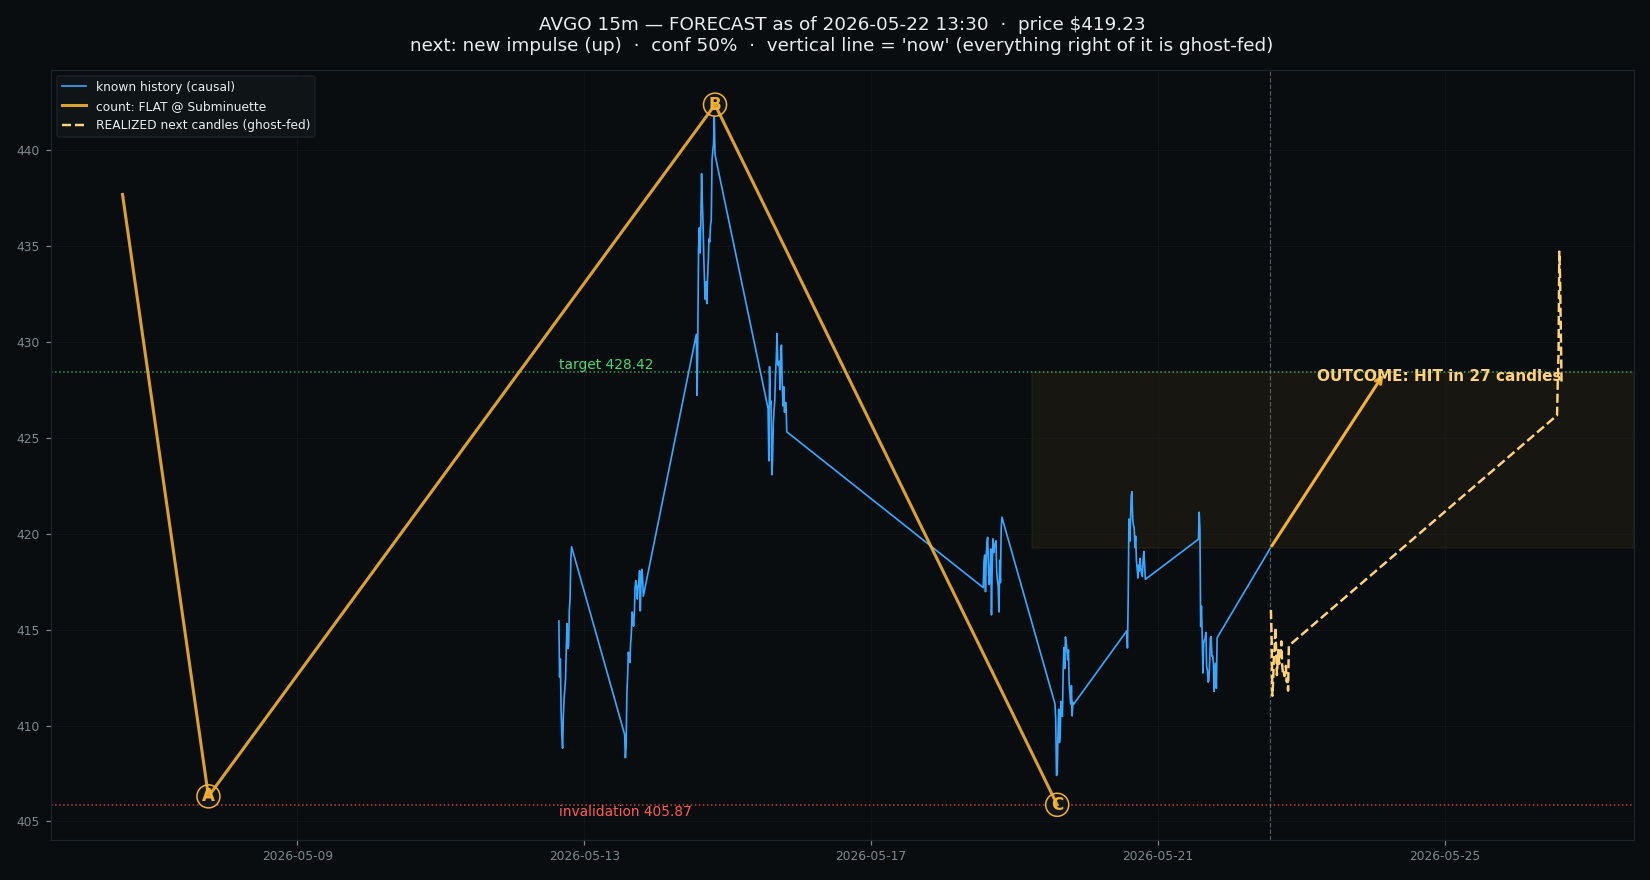
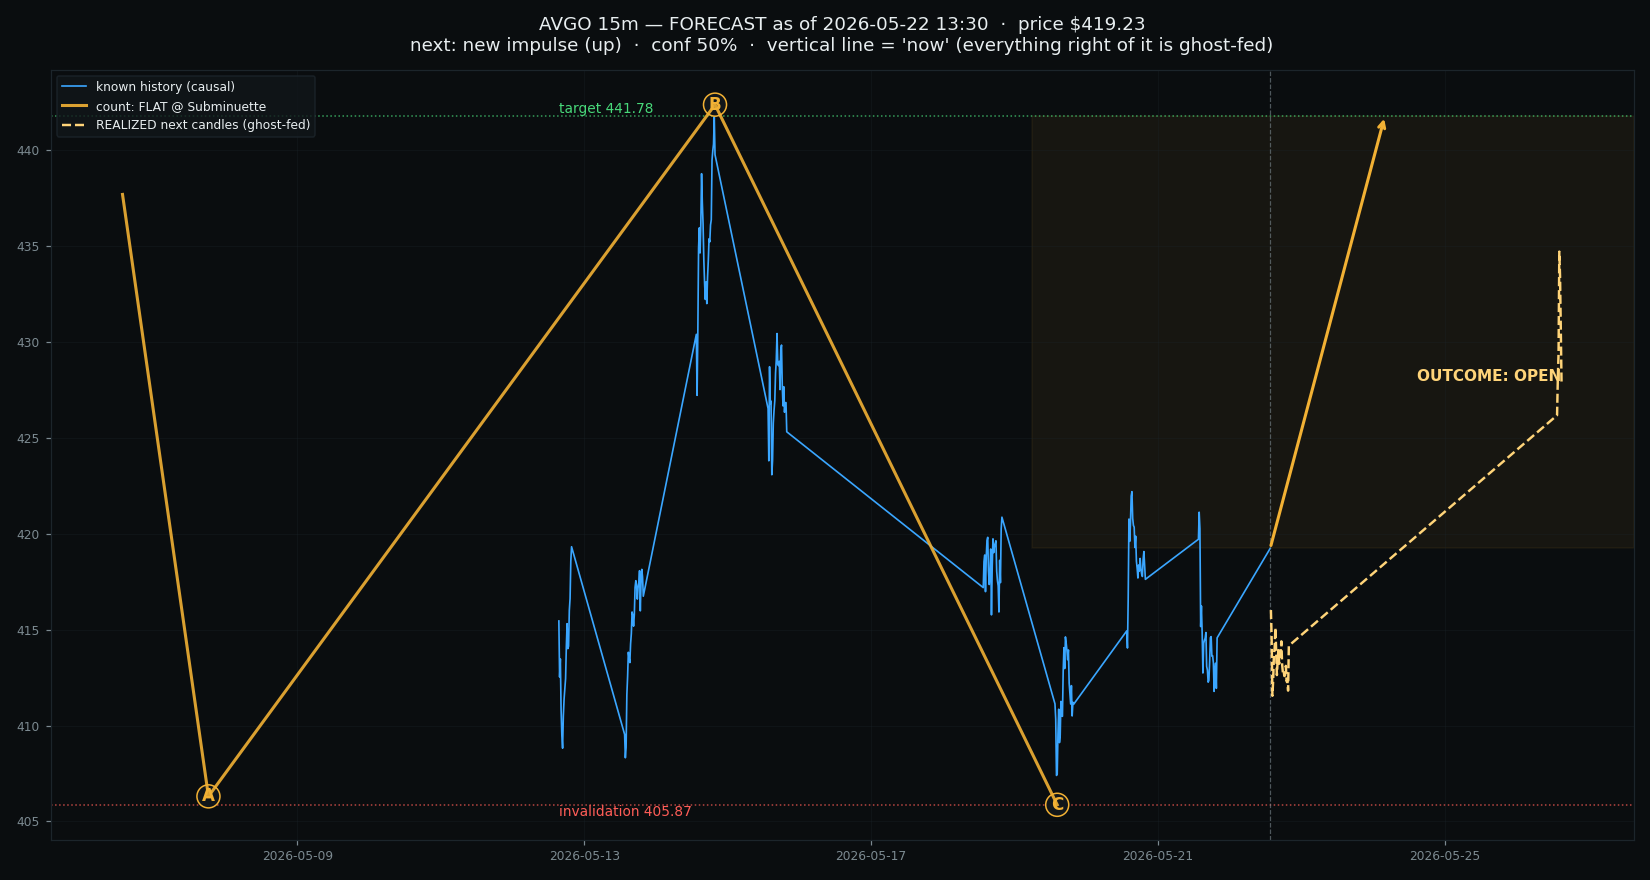
fix(forecast): re-anchor projections to current price -> intraday stale 51%->6%
The forward test exposed that ~half of intraday forecasts were unusable: extension
targets were anchored to the last CONFIRMED pivot, which lags price, so the target
sat on the wrong side of current price. forecast_from_count now re-anchors the
extension/thrust projections to CURRENT price when an unconfirmed leg is already
developing in the forecast direction. Result on AVGO 15m ghost-feed: stale 117->13
(51%->6%); usable forecasts now resolve to a HONEST 57% target-hit (down from the
inflated 89% trivial-instant-hits), next-candle direction 55%. Forecasts are now
actionable in real time; the honest hit rate is modest (R:R<1 so not yet a proven
edge). Tests green.

diff --git a/wavelib/forecast.py b/wavelib/forecast.py
@@ -82,21 +82,29 @@ def forecast_from_count(pc, price, sequence_status="INCOMPLETE") -> "WaveForecas
         # 3-wave correction complete -> a new impulse; project Fibonacci EXTENSIONS of
         # the last leg, incl. the EWF Blue Box (100%-161.8% equal-legs reaction zone).
         ll = last.length
-        ext = {r: anchor + sgn * r * ll for r in (0.618, 1.0, 1.272, 1.618, 2.618)}
+        # RE-ANCHOR to current price when an unconfirmed impulse leg is already
+        # developing (price has run in the forecast direction past the last confirmed
+        # pivot). Anchoring extensions to the stale pivot is what made ~half of
+        # intraday forecasts unusable (forward test); projecting from where price IS
+        # keeps the target ahead of price.
+        base = price if sgn * (price - anchor) > 0 else anchor
+        ext = {r: base + sgn * r * ll for r in (0.618, 1.0, 1.272, 1.618, 2.618)}
         targets = [("1.000x (equal legs)", ext[1.0]), ("1.618x (Blue Box top)", ext[1.618]),
                    ("2.618x extension", ext[2.618])]
         proj = list(ext.values())
         invalid = anchor                              # a break past the last pivot voids it
         nxt = f"new impulse ({direction})"
         why = ("3-wave correction appears complete; trend resumption is expected, "
-               "projected as Fibonacci EXTENSIONS of the last leg (Blue Box = 1.0-1.618x).")
+               "projected as Fibonacci EXTENSIONS of the last leg (Blue Box = 1.0-1.618x), "
+               "re-anchored to current price when the leg is already developing.")
     elif pat == "TRIANGLE":
         widest = max(l.length for l in legs)
         direction = "up" if struct_up else "down"
         sgn = 1 if direction == "up" else -1
-        th = triangle_thrust(widest, anchor, sgn)
+        base = price if sgn * (price - anchor) > 0 else anchor   # re-anchor to live price
+        th = triangle_thrust(widest, base, sgn)
         targets = [("thrust min (0.75x)", th["min"]), ("thrust max (1.25x)", th["max"])]
-        proj = [th["min"], th["max"], anchor + sgn * widest]
+        proj = [th["min"], th["max"], base + sgn * widest]
         invalid = first.start.price
         nxt = f"post-triangle thrust ({direction})"
         why = (f"triangle complete; a thrust of ~75-125% of the widest leg "

diff --git a/reports/FORWARD_TEST_AVGO_15m.md b/reports/FORWARD_TEST_AVGO_15m.md
@@ -3,41 +3,41 @@
 _Simulated real time: at each of 228 candles (2026-05-22 13:30 → 2026-06-04 18:15) the LIVE forecast is built from the prior 400 candles only, then the next 32 candles are ghost-fed to resolve it. Causal; not advice._
 
 ## Summary
-- **STALE/unusable forecasts: 117** of 228 (51%) — the target was already on the wrong side of price because the count's confirmed pivot lags (intraday lag). These are EXCLUDED, not counted as instant wins.
-- Usable forecasts resolved: **63** (HIT 56 / INVALIDATED 7); OPEN 48; no-forecast 0.
-- **Target-hit rate among USABLE forecasts: 89%.**
+- **STALE/unusable forecasts: 13** of 228 (6%) — the target was already on the wrong side of price because the count's confirmed pivot lags (intraday lag). These are EXCLUDED, not counted as instant wins.
+- Usable forecasts resolved: **86** (HIT 49 / INVALIDATED 37); OPEN 129; no-forecast 0.
+- **Target-hit rate among USABLE forecasts: 57%.**
 - Next-candle directional accuracy: **55%** of 228 (coin-flip = 50%).
 - Snapshots (forecast vs realized): `charts/png/forward/avgo_15m_step_1.png`, `charts/png/forward/avgo_15m_step_2.png`, `charts/png/forward/avgo_15m_step_3.png`, `charts/png/forward/avgo_15m_step_4.png`, `charts/png/forward/avgo_15m_step_5.png`, `charts/png/forward/avgo_15m_step_6.png`
 
 ## Live forecast log (every 8th candle)
 | time | price | forecast | conf | target | invalid | outcome |
 |---|---|---|---|---|---|---|
-| 05-22 13:30 | 419.23 | new impulse (up) | 50% | 428.42 | 405.87 | HIT (27) |
-| 05-22 15:30 | 413.94 | new impulse (up) | 50% | 428.42 | 405.87 | HIT (19) |
-| 05-22 17:30 | 413.19 | new impulse (up) | 50% | 428.42 | 405.87 | HIT (11) |
-| 05-22 19:30 | 411.82 | new impulse (up) | 50% | 428.42 | 405.87 | HIT (3) |
-| 05-26 15:00 | 427.80 | new impulse (up) | 38% | 438.96 | 405.87 | OPEN |
-| 05-26 17:00 | 423.02 | new impulse (up) | 38% | 438.96 | 405.87 | OPEN |
-| 05-26 19:00 | 423.31 | new impulse (up) | 38% | 438.96 | 405.87 | OPEN |
-| 05-27 14:30 | 420.00 | new impulse (up) | 38% | 438.96 | 405.87 | OPEN |
-| 05-27 16:30 | 420.69 | new impulse (up) | 38% | 438.96 | 405.87 | OPEN |
-| 05-27 18:30 | 420.68 | new impulse (up) | 38% | 438.96 | 405.87 | HIT (32) |
-| 05-28 14:00 | 422.02 | new impulse (up) | 38% | 438.96 | 405.87 | HIT (24) |
-| 05-28 16:00 | 425.22 | new impulse (up) | 38% | 428.42 | 405.87 | HIT (6) |
-| 05-28 18:00 | 428.79 | new impulse (up) | 57% | 428.42 | 405.87 | stale |
-| 05-29 13:30 | 445.68 | new impulse (up) | 57% | 428.42 | 405.87 | stale |
-| 05-29 15:30 | 439.00 | new impulse (up) | 57% | 428.42 | 405.87 | stale |
-| 05-29 17:30 | 434.98 | new impulse (up) | 57% | 428.42 | 405.87 | stale |
-| 05-29 19:30 | 440.18 | new impulse (up) | 57% | 428.42 | 405.87 | stale |
-| 06-01 15:00 | 456.11 | new impulse (up) | 57% | 428.42 | 405.87 | stale |
-| 06-01 17:00 | 461.69 | new impulse (up) | 57% | 428.42 | 405.87 | stale |
-| 06-01 19:00 | 461.89 | new impulse (up) | 57% | 428.42 | 405.87 | stale |
-| 06-02 14:30 | 480.47 | new impulse (up) | 58% | 428.42 | 405.87 | stale |
-| 06-02 16:30 | 483.06 | new impulse (up) | 57% | 428.42 | 405.87 | stale |
-| 06-02 18:30 | 471.85 | new impulse (up) | 55% | 428.42 | 405.87 | stale |
-| 06-03 14:00 | 481.90 | new impulse (up) | 54% | 428.42 | 405.87 | stale |
-| 06-03 16:00 | 483.97 | new impulse (up) | 56% | 428.42 | 405.87 | stale |
-| 06-03 18:00 | 486.50 | new impulse (up) | 40% | 431.20 | 414.02 | stale |
+| 05-22 13:30 | 419.23 | new impulse (up) | 50% | 441.78 | 405.87 | OPEN |
+| 05-22 15:30 | 413.94 | new impulse (up) | 50% | 436.49 | 405.87 | OPEN |
+| 05-22 17:30 | 413.19 | new impulse (up) | 50% | 435.74 | 405.87 | OPEN |
+| 05-22 19:30 | 411.82 | new impulse (up) | 50% | 434.37 | 405.87 | HIT (5) |
+| 05-26 15:00 | 427.80 | new impulse (up) | 38% | 460.89 | 405.87 | OPEN |
+| 05-26 17:00 | 423.02 | new impulse (up) | 38% | 456.11 | 405.87 | OPEN |
+| 05-26 19:00 | 423.31 | new impulse (up) | 38% | 456.40 | 405.87 | OPEN |
+| 05-27 14:30 | 420.00 | new impulse (up) | 38% | 453.09 | 405.87 | OPEN |
+| 05-27 16:30 | 420.69 | new impulse (up) | 38% | 453.79 | 405.87 | OPEN |
+| 05-27 18:30 | 420.68 | new impulse (up) | 38% | 453.77 | 405.87 | OPEN |
+| 05-28 14:00 | 422.02 | new impulse (up) | 38% | 455.12 | 405.87 | OPEN |
+| 05-28 16:00 | 425.22 | new impulse (up) | 38% | 447.77 | 405.87 | HIT (17) |
+| 05-28 18:00 | 428.79 | new impulse (up) | 57% | 451.34 | 405.87 | OPEN |
+| 05-29 13:30 | 445.68 | new impulse (up) | 57% | 468.23 | 405.87 | OPEN |
+| 05-29 15:30 | 439.00 | new impulse (up) | 57% | 461.55 | 405.87 | HIT (28) |
+| 05-29 17:30 | 434.98 | new impulse (up) | 57% | 457.53 | 405.87 | HIT (14) |
+| 05-29 19:30 | 440.18 | new impulse (up) | 57% | 462.73 | 405.87 | HIT (12) |
+| 06-01 15:00 | 456.11 | new impulse (up) | 57% | 478.66 | 405.87 | HIT (20) |
+| 06-01 17:00 | 461.69 | new impulse (up) | 57% | 503.14 | 405.87 | OPEN |
+| 06-01 19:00 | 461.89 | new impulse (up) | 57% | 503.34 | 405.87 | OPEN |
+| 06-02 14:30 | 480.47 | new impulse (up) | 58% | 521.92 | 405.87 | OPEN |
+| 06-02 16:30 | 483.06 | new impulse (up) | 57% | 524.51 | 405.87 | OPEN |
+| 06-02 18:30 | 471.85 | new impulse (up) | 55% | 513.30 | 405.87 | INVALIDATED (32) |
+| 06-03 14:00 | 481.90 | new impulse (up) | 54% | 523.35 | 405.87 | INVALIDATED (24) |
+| 06-03 16:00 | 483.97 | new impulse (up) | 56% | 525.42 | 405.87 | INVALIDATED (16) |
+| 06-03 18:00 | 486.50 | new impulse (up) | 40% | 503.68 | 414.02 | INVALIDATED (8) |
 | 06-04 13:30 | 403.79 | new impulse (up) | 40% | 431.20 | 414.02 | stale |
 | 06-04 15:30 | 412.98 | new impulse (up) | 40% | 431.20 | 414.02 | stale |
-| 06-04 17:30 | 422.46 | new impulse (up) | 56% | 459.86 | 403.01 | INVALIDATED (10) |
+| 06-04 17:30 | 422.46 | new impulse (up) | 56% | 479.31 | 403.01 | INVALIDATED (10) |
